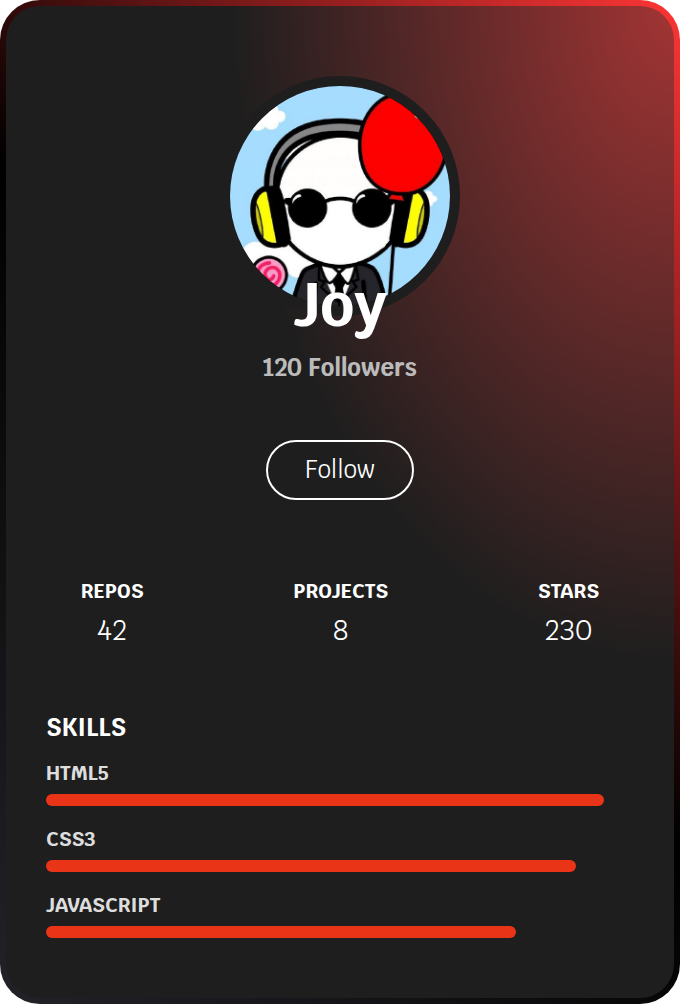
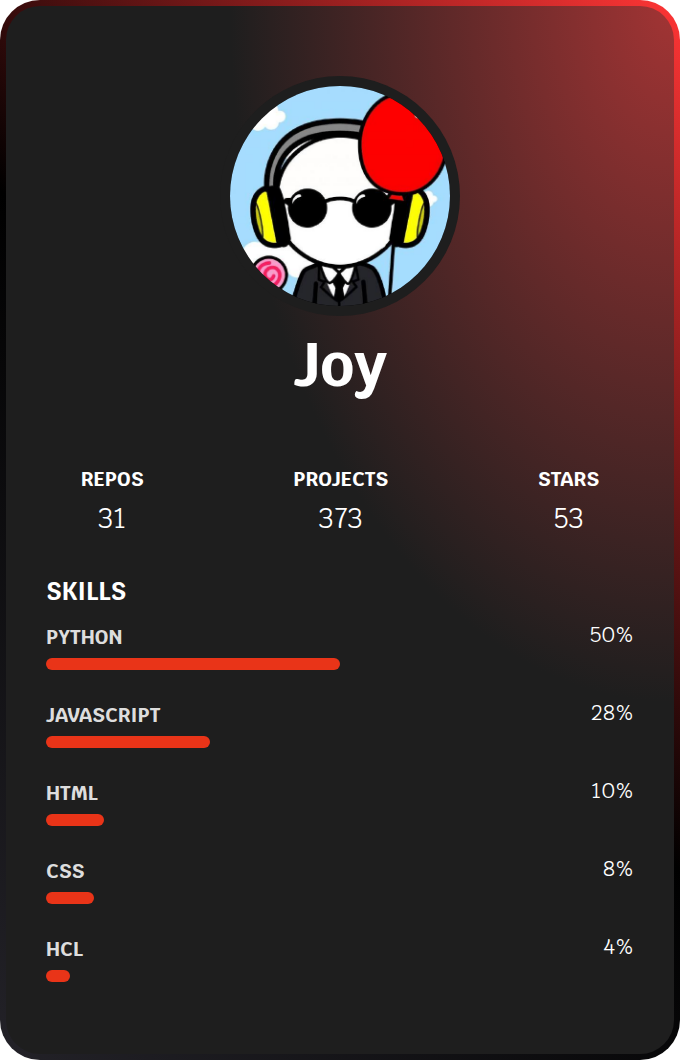
Refactor profile card HTML and CSS for improved structure and functionality

diff --git a/assets/html/card-profile.html b/assets/html/card-profile.html
@@ -9,8 +9,7 @@
 
     /* base page styles */
     body {
-      margin: 0;
-      padding: 0;
+      margin: 0; padding: 0;
       background-color: white;
       color: black;
       font-family: 'Krub', sans-serif;
@@ -24,180 +23,169 @@
       border-radius: 20px;
       border: 3px solid transparent;
       background-image:
-        radial-gradient(
-          ellipse at right top,
-          rgb(162, 52, 52) 0%,
-          #1e1e1e 47%,
-          #1e1e1e 100%
-        ),
-        linear-gradient(
-          45deg,
-          rgb(35, 34, 40) 0%,
-          rgb(0, 0, 0) 50%,
-          rgb(255, 53, 53) 100%
-        );
+        radial-gradient(ellipse at right top, rgb(162,52,52) 0%, #1e1e1e 47%, #1e1e1e 100%),
+        linear-gradient(45deg, rgb(35,34,40) 0%, rgb(0,0,0) 50%, rgb(255,53,53) 100%);
       background-clip: padding-box, border-box;
       background-origin: padding-box, border-box;
       box-sizing: border-box;
     }
 
-    .ds-top {
-      width: 340px;
-      height: 80px;
-      margin-left: -10px;
-    }
+    .ds-top { width:340px; height:80px; margin-left:-10px; }
 
     .avatar-holder {
-      position: absolute;
-      top: 40px;
-      left: 50%;
-      transform: translateX(-50%);
-      width: 100px;
-      height: 100px;
-      border-radius: 50%;
-      background: #111;
-      padding: 5px;
-      box-shadow: 0 0 0 5px #1e1e1e, inset 0 0 0 3px #000;
-      overflow: hidden;
+      position: absolute; top:40px; left:50%;
+      transform:translateX(-50%);
+      width:100px; height:100px;
+      border-radius:50%;
+      background:#111;
+      padding:5px;
+      box-shadow:0 0 0 5px #1e1e1e, inset 0 0 0 3px #000;
+      overflow:hidden;
     }
     .avatar-holder img {
-      width: 100%;
-      height: 100%;
-      object-fit: cover;
-      transform: scale(1.1);
-      transform-origin: center;
+      width:100%; height:100%; object-fit:cover;
+      transform:scale(1.1); transform-origin:center;
     }
 
     .name {
-      text-align: center;
-      padding-top: 50px;
-      z-index: 100;
+      text-align:center; padding-top:80px; z-index:100;
     }
     .name a {
-      position: relative;
-      color: #fff;
-      font-size: 30px;
-      font-weight: 700;
-      text-decoration: none;
+      color:#fff; font-size:30px; font-weight:700; text-decoration:none;
     }
-    .name a:hover {
-      text-decoration: underline;
-    }
-    .name h6 {
-      margin-top: 4px;
-      font-size: 12px;
-      color: #bbb;
-    }
-
-    .button {
-      text-align: center;
-      margin: 20px 0 0;
-    }
-    .button a {
-      display: inline-block;
-      padding: 6px 18px;
-      border: 1px solid #fff;
-      border-radius: 20px;
-      color: #fff;
-      font-size: 12px;
-      text-decoration: none;
-      transition: all .3s;
-    }
-    .button a:hover,
-    .button a.following {
-      background: #fff;
-      color: #111;
-    }
+    .name a:hover { text-decoration:underline; }
 
     .ds-info {
-      display: flex;
-      justify-content: space-around;
-      margin: 16px 0 0;
+      display:flex; justify-content:space-around; margin:8px 0 0;
     }
     .ds-info h6 {
-      font-size: 10px;
-      color: #fff;
-      text-transform: uppercase;
-      margin-bottom: 4px;
+      font-size:10px; color:#fff; text-transform:uppercase; margin-bottom:4px;
     }
     .ds-info p {
-      text-align:center;
-      color: white;
-      font-size: 14px;
-      margin: 0;
+      text-align:center; color:#fff; font-size:14px; margin:0;
     }
 
     .ds-skill {
-      padding: 20px;
+      padding:20px;
     }
     .ds-skill h6 {
-      font-size: 12px;
-      color: #fff;
-      margin-top: 12px;
-      text-transform: uppercase;
-      margin-bottom: 8px;
+      font-size:12px; color:#fff; text-transform:uppercase; margin:0 0 8px;
     }
     .ds-skill .skill {
-      margin-bottom: 10px;
+      position:relative; /* for absolute label */
+      margin-bottom:16px;
     }
     .ds-skill .skill h6 {
-      font-size: 10px;
-      margin: 0 0 4px;
-      color: #ddd;
+      font-size:10px; margin:0 0 4px; color:#ddd;
     }
     .ds-skill .bar {
-      height: 6px;
-      background: rgb(233, 52, 24);
-      position: relative;
-      overflow: hidden;
-      transition: background .3s;
-      border-radius: 10px;
+      height:6px; background:rgb(233,52,24);
+      border-radius:10px; overflow:hidden;
+      transition:background .3s;
+      width:0; /* set by JS */
     }
-    .ds-skill .bar p {
-      position: absolute;
-      right: 4px;
-      top: -2px;
-      font-size: 8px;
-      color: #111;
+    .ds-skill .bar:hover { background:#4A90E2; }
+
+    .ds-skill .bar-label {
+      position:absolute;
+      top:-13px;   /* just above the bar */
+      right:0;     /* flush right */
+      font-size:11px;
+      color:#fff;
     }
-    .ds-skill .bar:hover {
-      background: #4A90E2;
-    }
-    .bar-html { width: 95%; }
-    .bar-css  { width: 90%; }
-    .bar-js   { width: 80%; }
   </style>
 </head>
 <body>
+
+  <script>
+    const profileData = {
+      avatarUrl: 'https://github.com/Joy-2612.png?size=512',
+      githubUrl: 'https://github.com/Joy-2612',
+      name: 'Joy',
+      stats: { repos: 31, commits: 373, prs: 53 },
+      skills: [
+        { selector: '.bar-python', percent: 50 },
+        { selector: '.bar-js',     percent: 28 },
+        { selector: '.bar-html',   percent: 10 },
+        { selector: '.bar-css',    percent: 8  },
+        { selector: '.bar-hcl',    percent: 4  }
+      ]
+    };
+  </script>
+
   <div class="card">
     <div class="ds-top"></div>
+
     <div class="avatar-holder">
-      <img src="https://github.com/Joy-2612.png?size=512" alt="Joy’s Avatar">
+      <img id="avatarImg" src="" alt="Avatar">
     </div>
+
     <div class="name">
-      <a href="https://github.com/Joy-2612" target="_blank">Joy</a>
-      <h6>120 Followers</h6>
+      <a id="profileLink" href="" target="_blank"></a>
     </div>
-    <div class="button">
-      <a href="#" class="follow-btn">Follow</a>
-    </div>
+
     <div class="ds-info">
-      <div><h6>Repos</h6><p>42</p></div>
-      <div><h6>Projects</h6><p>8</p></div>
-      <div><h6>Stars</h6><p>230</p></div>
+      <div><h6>Repos</h6><p id="repoCount"></p></div>
+      <div><h6>Projects</h6><p id="commitCount"></p></div>
+      <div><h6>Stars</h6><p id="prCount"></p></div>
     </div>
+
     <div class="ds-skill">
       <h6>Skills</h6>
+
       <div class="skill">
-        <h6>HTML5</h6><div class="bar bar-html"><p>95%</p></div>
+        <h6>Python</h6>
+        <div class="bar bar-python"></div>
+        <p class="bar-label"></p>
       </div>
+
       <div class="skill">
-        <h6>CSS3</h6><div class="bar bar-css"><p>90%</p></div>
+        <h6>JavaScript</h6>
+        <div class="bar bar-js"></div>
+        <p class="bar-label"></p>
       </div>
+
       <div class="skill">
-        <h6>JavaScript</h6><div class="bar bar-js"><p>80%</p></div>
+        <h6>HTML</h6>
+        <div class="bar bar-html"></div>
+        <p class="bar-label"></p>
       </div>
+
+      <div class="skill">
+        <h6>CSS</h6>
+        <div class="bar bar-css"></div>
+        <p class="bar-label"></p>
+      </div>
+
+      <div class="skill">
+        <h6>HCL</h6>
+        <div class="bar bar-hcl"></div>
+        <p class="bar-label"></p>
+      </div>
+
     </div>
   </div>
+
+  <script>
+    // fill avatar + name
+    document.getElementById('avatarImg').src = profileData.avatarUrl;
+    const linkEl = document.getElementById('profileLink');
+    linkEl.href = profileData.githubUrl;
+    linkEl.textContent = profileData.name;
+
+    // fill stats
+    document.getElementById('repoCount').textContent    = profileData.stats.repos;
+    document.getElementById('commitCount').textContent = profileData.stats.commits;
+    document.getElementById('prCount').textContent     = profileData.stats.prs;
+
+    // fill skill bars & labels
+    profileData.skills.forEach(skill => {
+      const bar   = document.querySelector(skill.selector);
+      const label = bar.nextElementSibling;
+      bar.style.width      = skill.percent + '%';
+      label.textContent    = skill.percent + '%';
+    });
+  </script>
+
 </body>
 </html>
